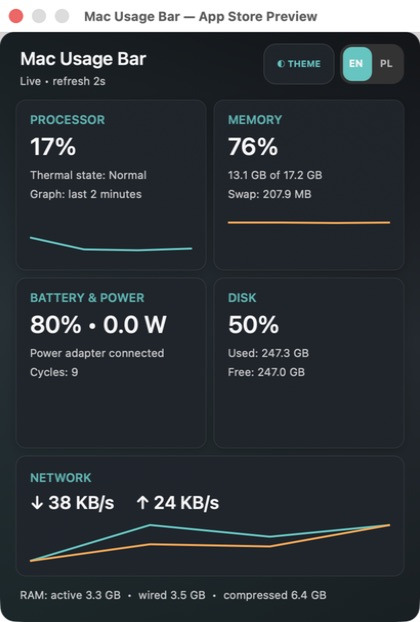
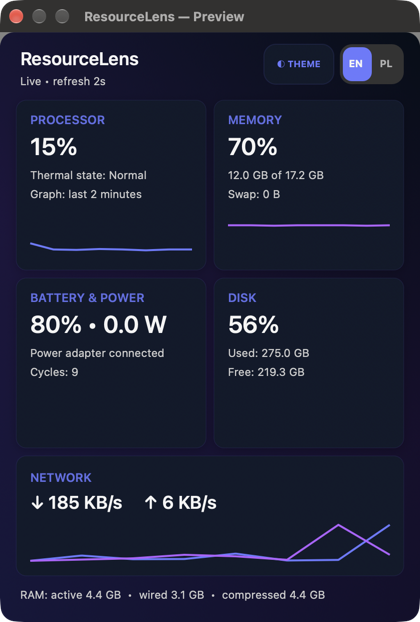
Prepare ResourceLens App Store build 27

diff --git a/AppStore/Screenshots/store-en.html b/AppStore/Screenshots/store-en.html
@@ -2,7 +2,7 @@
 <html lang="en">
 <meta charset="utf-8">
 <meta name="viewport" content="width=1440, initial-scale=1">
-<title>Mac Usage Bar — App Store screenshot</title>
+<title>ResourceLens — App Store screenshot</title>
 <style>
   * { box-sizing: border-box; }
   html, body { width: 1440px; height: 900px; margin: 0; overflow: hidden; }
@@ -25,11 +25,11 @@
 </style>
 <main>
   <section class="copy">
-    <div class="eyebrow">Mac Usage Bar</div>
-    <h1>Your Mac.<br>At a glance.</h1>
+    <div class="eyebrow">ResourceLens</div>
+    <h1>Your system.<br>At a glance.</h1>
     <p>Live system stats in your menu bar — private, lightweight, and always within reach.</p>
     <div class="features"><span>CPU &amp; memory</span><span>Battery &amp; power</span><span>Disk</span><span>Network</span><span>No tracking</span></div>
   </section>
-  <img class="shot" src="dashboard-en-window.png" alt="Mac Usage Bar dashboard">
+  <img class="shot" src="dashboard-en-window.png" alt="ResourceLens dashboard">
 </main>
 </html>

diff --git a/AppStore/Screenshots/store-pl.html b/AppStore/Screenshots/store-pl.html
@@ -2,7 +2,7 @@
 <html lang="pl">
 <meta charset="utf-8">
 <meta name="viewport" content="width=1440, initial-scale=1">
-<title>Mac Usage Bar — zrzut do App Store</title>
+<title>ResourceLens — zrzut do App Store</title>
 <style>
   * { box-sizing: border-box; }
   html, body { width: 1440px; height: 900px; margin: 0; overflow: hidden; }
@@ -25,11 +25,11 @@
 </style>
 <main>
   <section class="copy">
-    <div class="eyebrow">Mac Usage Bar</div>
-    <h1>Twój Mac.<br>W skrócie.</h1>
+    <div class="eyebrow">ResourceLens</div>
+    <h1>Twój system.<br>W skrócie.</h1>
     <p>Statystyki systemu na żywo w pasku menu — prywatnie, lekko i zawsze pod ręką.</p>
     <div class="features"><span>CPU i pamięć</span><span>Bateria i moc</span><span>Dysk</span><span>Sieć</span><span>Bez śledzenia</span></div>
   </section>
-  <img class="shot" src="dashboard-pl-window.png" alt="Panel Mac Usage Bar">
+  <img class="shot" src="dashboard-pl-window.png" alt="Panel ResourceLens">
 </main>
 </html>

diff --git a/MacUsageBar/main.m b/MacUsageBar/main.m
@@ -510,7 +510,7 @@ typedef struct { uint64_t user, system, idle, nice; } CPUState;
         [[NSColor colorWithWhite:1 alpha:.34]setStroke];[glassHighlight stroke];
     }
     MonitorSnapshot *d=self.data; if(!d)return;
-    [self text:@"Mac Usage Bar" x:20 y:16 size:18 color:PanelTextPrimary() weight:NSFontWeightSemibold];
+    [self text:@"ResourceLens" x:20 y:16 size:18 color:PanelTextPrimary() weight:NSFontWeightSemibold];
     [self text:[self en:@"Live • refresh 2s" pl:@"Na żywo • odśw. 2 s"] x:20 y:42 size:11 color:PanelTextSecondary() weight:NSFontWeightRegular];
 
 #if APP_STORE_BUILD
@@ -578,7 +578,7 @@ typedef struct { uint64_t user, system, idle, nice; } CPUState;
     [self card:NSMakeRect(16,68,w,h) title:[self en:@"PROCESSOR" pl:@"PROCESOR"] value:[NSString stringWithFormat:@"%ld%%",(long)d.cpu] detail1:[NSString stringWithFormat:[self en:@"Thermal state: %@" pl:@"Stan termiczny: %@"],[self thermalText:d.thermalState]] detail2:[self en:@"Graph: last 2 minutes" pl:@"Wykres: ostatnie 2 minuty"] history:self.cpuHistory color:blue max:100];
     [self card:NSMakeRect(214,68,w,h) title:[self en:@"MEMORY" pl:@"PAMIĘĆ RAM"] value:[NSString stringWithFormat:@"%ld%%",(long)d.memoryPercent] detail1:[NSString stringWithFormat:[self en:@"%@ of %@" pl:@"%@ z %@"],FormatBytes(d.memoryUsed),FormatBytes(d.memoryTotal)] detail2:[NSString stringWithFormat:@"Swap: %@",FormatBytes(d.swapUsed)] history:self.ramHistory color:purple max:100];
     NSString *batteryTime = d.timeRemaining ?: [self en:@"Calculating…" pl:@"Obliczanie…"];
-    NSString *batteryDetail = d.hasBattery ? ([NSString stringWithFormat:@"%@%@", [self batteryStateText:d], (d.onAC && !d.charging ? @"" : [NSString stringWithFormat:@" • %@",batteryTime])]) : [self en:@"Desktop Mac" pl:@"Mac stacjonarny"];
+    NSString *batteryDetail = d.hasBattery ? ([NSString stringWithFormat:@"%@%@", [self batteryStateText:d], (d.onAC && !d.charging ? @"" : [NSString stringWithFormat:@" • %@",batteryTime])]) : [self en:@"Desktop computer" pl:@"Komputer stacjonarny"];
     NSString *batteryStats = @"";
     if (d.batteryHealth > 0 && d.cycles > 0) batteryStats=[NSString stringWithFormat:[self en:@"Health: %ld%% • Cycles: %ld" pl:@"Kondycja: %ld%% • Cykle: %ld"],(long)d.batteryHealth,(long)d.cycles];
     else if (d.batteryHealth > 0) batteryStats=[NSString stringWithFormat:[self en:@"Health: %ld%%" pl:@"Kondycja: %ld%%"],(long)d.batteryHealth];
@@ -686,9 +686,14 @@ typedef struct { uint64_t user, system, idle, nice; } CPUState;
 @interface AppDelegate : NSObject <NSApplicationDelegate>
 @property SystemMonitor *monitor; @property NSStatusItem *statusItem; @property NSButton *menuBarButton; @property NSPopover *popover;
 @property DashboardView *dashboard; @property NSTimer *timer; @property NSWindow *previewWindow;
+@property NSMenu *statusMenu; @property NSMenuItem *openDashboardMenuItem; @property NSMenuItem *quitMenuItem;
 @property id globalMouseMonitor; @property id localMouseMonitor;
 @property CGFloat cachedAvailableMenuBarWidth;
 @property NSTimeInterval lastMenuBarWidthCalculation;
+- (void)configureApplicationMenu;
+- (void)configureStatusMenu;
+- (void)updateStatusMenuTitles;
+- (void)showDashboard:(id)sender;
 @end
 @implementation AppDelegate
 - (void)applicationDidFinishLaunching:(NSNotification *)n {
@@ -722,6 +727,7 @@ typedef struct { uint64_t user, system, idle, nice; } CPUState;
 #else
     NSUserDefaults *defaults=NSUserDefaults.standardUserDefaults;
 #endif
+    [self configureApplicationMenu];
     self.monitor=[SystemMonitor new];
     // A real status item is positioned and hidden with the rest of the macOS
     // menu bar. The previous custom all-spaces panel could overlap system
@@ -730,24 +736,26 @@ typedef struct { uint64_t user, system, idle, nice; } CPUState;
     [defaults removeObjectForKey:@"NSStatusItem Preferred Position pl.marcin.macusagebar.adaptive-status-v3"];
     self.statusItem=[NSStatusBar.systemStatusBar statusItemWithLength:NSVariableStatusItemLength];
     self.menuBarButton=self.statusItem.button;
-    self.menuBarButton.target=self;
-    self.menuBarButton.action=@selector(toggle:);
     self.menuBarButton.font=[NSFont monospacedSystemFontOfSize:11 weight:NSFontWeightMedium];
     CGFloat dashboardHeight=APP_STORE_BUILD ? 590.0 : 820.0;
     self.dashboard=[[DashboardView alloc]initWithFrame:NSMakeRect(0,0,420,dashboardHeight)];
-    self.menuBarButton.toolTip=self.dashboard.polish ? @"Kliknij, aby zobaczyć szczegóły użycia Maca" : @"Click to see detailed Mac usage";
+    self.menuBarButton.toolTip=self.dashboard.polish ? @"Kliknij, aby otworzyć menu ResourceLens" : @"Click to open the ResourceLens menu";
     __weak AppDelegate *weakSelf = self;
 #if !APP_STORE_BUILD
     self.dashboard.optimizeHandler = ^{ [weakSelf runOptimization]; };
 #endif
-    self.dashboard.languageChangedHandler = ^(BOOL polish) { weakSelf.menuBarButton.toolTip = polish ? @"Kliknij, aby zobaczyć szczegóły użycia Maca" : @"Click to see detailed Mac usage"; };
+    self.dashboard.languageChangedHandler = ^(BOOL polish) {
+        weakSelf.menuBarButton.toolTip = polish ? @"Kliknij, aby otworzyć menu ResourceLens" : @"Click to open the ResourceLens menu";
+        [weakSelf updateStatusMenuTitles];
+    };
     NSVisualEffectView *glassContainer = [[NSVisualEffectView alloc] initWithFrame:NSMakeRect(0,0,420,dashboardHeight)];
     glassContainer.material = NSVisualEffectMaterialHUDWindow; glassContainer.blendingMode = NSVisualEffectBlendingModeBehindWindow; glassContainer.state = NSVisualEffectStateActive;
     self.dashboard.frame = glassContainer.bounds; self.dashboard.autoresizingMask = NSViewWidthSizable | NSViewHeightSizable; [glassContainer addSubview:self.dashboard];
     NSViewController *vc=[NSViewController new]; vc.view=glassContainer; self.popover=[NSPopover new]; self.popover.contentViewController=vc; self.popover.contentSize=NSMakeSize(420,dashboardHeight); self.popover.behavior=NSPopoverBehaviorTransient;
+    [self configureStatusMenu];
     if ([NSProcessInfo.processInfo.arguments containsObject:@"--preview"]) {
         self.previewWindow=[[NSWindow alloc] initWithContentRect:NSMakeRect(0,0,420,dashboardHeight) styleMask:NSWindowStyleMaskTitled|NSWindowStyleMaskClosable backing:NSBackingStoreBuffered defer:NO];
-        self.previewWindow.title=@"Mac Usage Bar — App Store Preview";
+        self.previewWindow.title=@"ResourceLens — Preview";
         self.previewWindow.contentView=glassContainer;
         [self.previewWindow center];
         [NSApp activateIgnoringOtherApps:YES];
@@ -775,6 +783,64 @@ typedef struct { uint64_t user, system, idle, nice; } CPUState;
     });
     self.timer=[NSTimer scheduledTimerWithTimeInterval:2 target:self selector:@selector(update) userInfo:nil repeats:YES];
 }
+
+- (NSString *)displayName {
+    return [NSBundle.mainBundle objectForInfoDictionaryKey:@"CFBundleDisplayName"] ?: NSProcessInfo.processInfo.processName;
+}
+
+- (void)configureApplicationMenu {
+    NSMenu *mainMenu=[NSMenu new];
+    NSMenuItem *applicationMenuItem=[NSMenuItem new];
+    NSMenu *applicationMenu=[NSMenu new];
+    NSString *name=[self displayName];
+
+    NSMenuItem *about=[[NSMenuItem alloc] initWithTitle:[NSString stringWithFormat:@"About %@",name]
+                                                 action:@selector(orderFrontStandardAboutPanel:)
+                                          keyEquivalent:@""];
+    about.target=NSApp;
+    [applicationMenu addItem:about];
+    [applicationMenu addItem:NSMenuItem.separatorItem];
+
+    NSMenuItem *quit=[[NSMenuItem alloc] initWithTitle:[NSString stringWithFormat:@"Quit %@",name]
+                                                action:@selector(terminate:)
+                                         keyEquivalent:@"q"];
+    quit.target=NSApp;
+    [applicationMenu addItem:quit];
+
+    applicationMenuItem.submenu=applicationMenu;
+    [mainMenu addItem:applicationMenuItem];
+    NSApp.mainMenu=mainMenu;
+}
+
+- (void)configureStatusMenu {
+    self.statusMenu=[NSMenu new];
+    self.openDashboardMenuItem=[[NSMenuItem alloc] initWithTitle:@""
+                                                          action:@selector(showDashboard:)
+                                                   keyEquivalent:@""];
+    self.openDashboardMenuItem.target=self;
+    [self.statusMenu addItem:self.openDashboardMenuItem];
+    [self.statusMenu addItem:NSMenuItem.separatorItem];
+    self.quitMenuItem=[[NSMenuItem alloc] initWithTitle:@""
+                                                 action:@selector(terminate:)
+                                          keyEquivalent:@"q"];
+    self.quitMenuItem.target=NSApp;
+    [self.statusMenu addItem:self.quitMenuItem];
+    self.statusItem.menu=self.statusMenu;
+    [self updateStatusMenuTitles];
+}
+
+- (void)updateStatusMenuTitles {
+    BOOL polish=self.dashboard.polish;
+    self.openDashboardMenuItem.title=polish ? @"Otwórz panel" : @"Open Dashboard";
+    self.quitMenuItem.title=[NSString stringWithFormat:(polish ? @"Zakończ %@" : @"Quit %@"),[self displayName]];
+}
+
+- (void)showDashboard:(id)sender {
+    dispatch_async(dispatch_get_main_queue(), ^{
+        [self.popover showRelativeToRect:self.menuBarButton.bounds ofView:self.menuBarButton preferredEdge:NSRectEdgeMinY];
+    });
+}
+
 - (void)applicationDidChangeScreenParameters:(NSNotification *)notification {
     self.cachedAvailableMenuBarWidth=0;
     self.lastMenuBarWidthCalculation=0;
@@ -946,7 +1012,6 @@ typedef struct { uint64_t user, system, idle, nice; } CPUState;
         : [NSString stringWithFormat:@"CPU: %ld%% · RAM: %ld%% (%.1f of %.1f GB) · Power: %@ · Battery: %@", (long)d.cpu, (long)d.memoryPercent, d.memoryUsed/1e9, d.memoryTotal/1e9, power, batteryDetail];
     [self.dashboard accept:d];
 }
-- (void)toggle:(id)sender { if(self.popover.shown)[self.popover close]; else [self.popover showRelativeToRect:self.menuBarButton.bounds ofView:self.menuBarButton preferredEdge:NSRectEdgeMinY]; }
 @end
 
 int main(int argc,const char *argv[]){ @autoreleasepool {

diff --git a/Scripts/generate_xcode_project.rb b/Scripts/generate_xcode_project.rb
@@ -14,7 +14,7 @@ end
 
 project = Xcodeproj::Project.new(project_path)
 project.root_object.attributes["LastUpgradeCheck"] = "2660"
-project.root_object.attributes["ORGANIZATIONNAME"] = "Mac Usage Bar"
+project.root_object.attributes["ORGANIZATIONNAME"] = "ResourceLens"
 
 app_group = project.main_group.new_group("MacUsageBar", "MacUsageBar")
 main_source = app_group.new_file("main.m")
@@ -24,8 +24,8 @@ app_icon = app_group.new_file("AppIcon.icns")
 privacy_manifest = app_group.new_file("PrivacyInfo.xcprivacy")
 
 target = project.new_target(:application, "MacUsageBar", :osx, "13.0")
-target.product_name = "Mac Usage Bar"
-target.product_reference.path = "Mac Usage Bar.app"
+target.product_name = "ResourceLens"
+target.product_reference.path = "ResourceLens.app"
 target.source_build_phase.add_file_reference(main_source)
 target.resources_build_phase.add_file_reference(app_icon)
 target.resources_build_phase.add_file_reference(privacy_manifest)
@@ -57,7 +57,7 @@ target.build_configurations.each do |configuration|
     "CLANG_ENABLE_OBJC_ARC" => "YES",
     "CODE_SIGN_ENTITLEMENTS" => "MacUsageBar/MacUsageBar.entitlements",
     "CODE_SIGN_STYLE" => "Automatic",
-    "CURRENT_PROJECT_VERSION" => "26",
+    "CURRENT_PROJECT_VERSION" => "27",
     "DEAD_CODE_STRIPPING" => "YES",
     "DEVELOPMENT_TEAM" => "4H36TJZAJ3",
     "ENABLE_APP_SANDBOX" => "YES",
@@ -70,7 +70,7 @@ target.build_configurations.each do |configuration|
     "LD_RUNPATH_SEARCH_PATHS" => ["$(inherited)", "@executable_path/../Frameworks"],
     "MARKETING_VERSION" => "1.8.4",
     "PRODUCT_BUNDLE_IDENTIFIER" => "pl.marcin.macusagebar.final",
-    "PRODUCT_NAME" => "Mac Usage Bar",
+    "PRODUCT_NAME" => "ResourceLens",
     "SUPPORTED_PLATFORMS" => "macosx"
   )
 

diff --git a/AppStore/metadata.md b/AppStore/metadata.md
@@ -2,7 +2,8 @@
 
 ## Shared values
 
-- App name: `Mac Usage Bar`
+- App Store name: `ResourceLens: System Monitor`
+- Installed app name: `ResourceLens`
 - Primary category: `Utilities`
 - Pricing: `Free`
 - Bundle ID: `pl.marcin.macusagebar.final`
@@ -16,7 +17,7 @@
 
 Subtitle:
 
-`Live Mac stats in the menu bar`
+`Performance, CPU & RAM Usage`
 
 Promotional text:
 
@@ -24,15 +25,15 @@ Promotional text:
 
 Keywords:
 
-`cpu,ram,memory,battery,power,disk,network,monitor,menu bar,system,performance,stats`
+`memory,stats,battery,health,network,speed,disk,power,menu,bar,activity,thermal,resource,device`
 
 Description:
 
-`Mac Usage Bar puts the most useful Mac performance information directly in your menu bar. Open its compact dashboard for live CPU and memory graphs, battery health and power draw, disk usage, network speed, and thermal state.`
+`ResourceLens puts the most useful system performance information directly in your menu bar. Open its compact dashboard for live CPU and memory graphs, battery health and power draw, disk usage, network speed, and thermal state.`
 
 `The menu bar readout automatically adapts to the available space, from a detailed overview to a minimal CPU indicator. Choose from four themes and switch between English and Polish at any time.`
 
-`Privacy comes first: Mac Usage Bar works entirely on your Mac. It has no accounts, ads, analytics, tracking, or network requests. Your system statistics never leave your device.`
+`Privacy comes first: ResourceLens works entirely on your computer. It has no accounts, ads, analytics, tracking, or network requests. Your system statistics never leave your device.`
 
 `Features:`
 
@@ -56,7 +57,7 @@ Description:
 
 Subtitle:
 
-`Statystyki Maca w pasku menu`
+`CPU, RAM, wydajność i użycie`
 
 Promotional text:
 
@@ -64,15 +65,15 @@ Promotional text:
 
 Keywords:
 
-`cpu,ram,pamięć,bateria,moc,dysk,sieć,monitor,pasek menu,system,wydajność,statystyki`
+`systemu,zasoby,procesor,pamięć,bateria,kondycja,sieć,prędkość,dysk,moc,menu,pasek,termiczny`
 
 Description:
 
-`Mac Usage Bar umieszcza najważniejsze informacje o wydajności Maca bezpośrednio na pasku menu. Otwórz kompaktowy panel, aby zobaczyć na żywo wykresy CPU i pamięci, kondycję baterii i pobór mocy, zajętość dysku, prędkość sieci oraz stan termiczny.`
+`ResourceLens umieszcza najważniejsze informacje o wydajności systemu bezpośrednio na pasku menu. Otwórz kompaktowy panel, aby zobaczyć na żywo wykresy CPU i pamięci, kondycję baterii i pobór mocy, zajętość dysku, prędkość sieci oraz stan termiczny.`
 
 `Odczyt na pasku menu automatycznie dopasowuje się do dostępnego miejsca — od pełnego zestawu informacji po minimalny wskaźnik CPU. Wybierz jeden z czterech motywów i w dowolnej chwili przełącz interfejs między językiem polskim i angielskim.`
 
-`Prywatność przede wszystkim: Mac Usage Bar działa w całości na Twoim Macu. Nie ma kont, reklam, analityki, śledzenia ani zapytań sieciowych. Statystyki systemowe nigdy nie opuszczają urządzenia.`
+`Prywatność przede wszystkim: ResourceLens działa w całości na Twoim komputerze. Nie ma kont, reklam, analityki, śledzenia ani zapytań sieciowych. Statystyki systemowe nigdy nie opuszczają urządzenia.`
 
 `Funkcje:`
 
@@ -94,4 +95,6 @@ Description:
 
 ## App Review notes
 
-`Mac Usage Bar is a menu-bar-only app (LSUIElement), so it does not show a Dock icon or a conventional main window. After launch, click the Mac Usage Bar readout in the macOS menu bar to open the dashboard. The app reads system metrics locally using public macOS APIs. It makes no network requests and collects no data. On a desktop Mac, the battery card correctly displays “No battery”. The Mac App Store target intentionally excludes the direct-download build's memory optimization feature and does not request administrator privileges.`
+`Resubmission resolution for version 1.8.4 (build 27): The App Store name is now “ResourceLens: System Monitor”, while the installed application name is “ResourceLens”. The previously flagged Apple product term has been removed from the app name, both localized subtitles, and the installed display name. The existing bundle identifier remains unchanged so current users can upgrade normally. The app now provides “Quit ResourceLens” in both the standard application menu and the status-item menu; Command-Q invokes the standard application termination action. Build 27 was created on a supported release environment after build 26 was rejected during automated binary processing with ITMS-90301.`
+
+`ResourceLens is a menu-bar-only app (LSUIElement), so it does not show a Dock icon or a conventional main window. After launch, click the live readout in the menu bar, then choose “Open Dashboard”. The same menu includes a visible “Quit ResourceLens” command, and Command-Q uses the standard application termination flow. The app reads system metrics locally using public macOS APIs. It makes no network requests and collects no data. On a computer without a battery, the battery card correctly displays “No battery”. The App Store target intentionally excludes the direct-download build's memory optimization feature and does not request administrator privileges.`

diff --git a/AppStore/release-checklist.md b/AppStore/release-checklist.md
@@ -10,23 +10,28 @@
 - [x] The Store build does not terminate other apps or read preferences from other bundle IDs.
 - [x] System-wide per-process metrics, which are unavailable in App Sandbox, are omitted from the Store UI.
 - [x] Privacy manifest declares no tracking and no collected data.
-- [x] Version is `1.8.4` and build is `26`.
+- [x] Installed app and Xcode product name are `ResourceLens`; bundle ID remains unchanged.
+- [x] The status menu includes `Quit ResourceLens`, and the app menu supports Command-Q.
+- [x] Version is `1.8.4` and build is `27`.
 - [x] Deployment target is macOS 13.0.
 - [x] Release build is universal (`arm64` and `x86_64`).
 - [x] Create and validate a local test archive with stable Xcode 26.6.
-- [ ] Create the production archive in Xcode Cloud on a supported stable macOS host.
-- [ ] Validate and upload the Xcode Cloud archive with the paid Apple Developer team.
+- [x] Record build 26 as rejected during automated processing with `ITMS-90301` because its build host OS was unsupported.
+- [ ] Create the production archive for build 27 in Xcode Cloud using released Xcode and macOS versions.
+- [ ] Validate and upload build 27 with the paid Apple Developer team.
 
 ## App Store Connect
 
 - [x] Confirm that the app record uses bundle ID `pl.marcin.macusagebar.final` and version `1.8.4`.
-- [x] Add English and Polish metadata from `metadata.md`.
-- [x] Upload at least one macOS screenshot in an accepted size.
+- [x] Change the English and Polish App Store name to `ResourceLens: System Monitor`.
+- [x] Replace both subtitles with the values from `metadata.md`.
+- [x] Replace screenshots and remove any submitted preview or review attachment that shows the old name.
+- [x] Update the remaining English and Polish metadata from `metadata.md`.
 - [x] Set category to Utilities and price to Free.
 - [x] Set App Privacy to Data Not Collected.
 - [x] Answer the current age-rating questions (all content categories are None for this app).
 - [ ] Confirm agreements, tax/banking state, and EU DSA trader status as applicable.
-- [ ] Select build 26, add review contact details, paste the review notes, and submit for review.
+- [ ] Select build 27, add review contact details, paste the updated review notes, and submit for review.
 
 ## Final smoke test
 
@@ -35,5 +40,7 @@
 - [ ] Confirm CPU, memory, disk, and network data refresh.
 - [ ] Confirm battery behavior on both a MacBook and a desktop Mac if available.
 - [ ] Confirm English/Polish switching and all four themes.
+- [ ] Confirm `Open Dashboard` opens the panel from the status menu.
+- [x] Confirm `Quit ResourceLens` terminates the exact archived build and removes its process; Command-Q uses the same standard termination action.
 - [ ] Confirm no Optimize button is visible.
 - [ ] Confirm no network connections and no unexpected sandbox denials.
